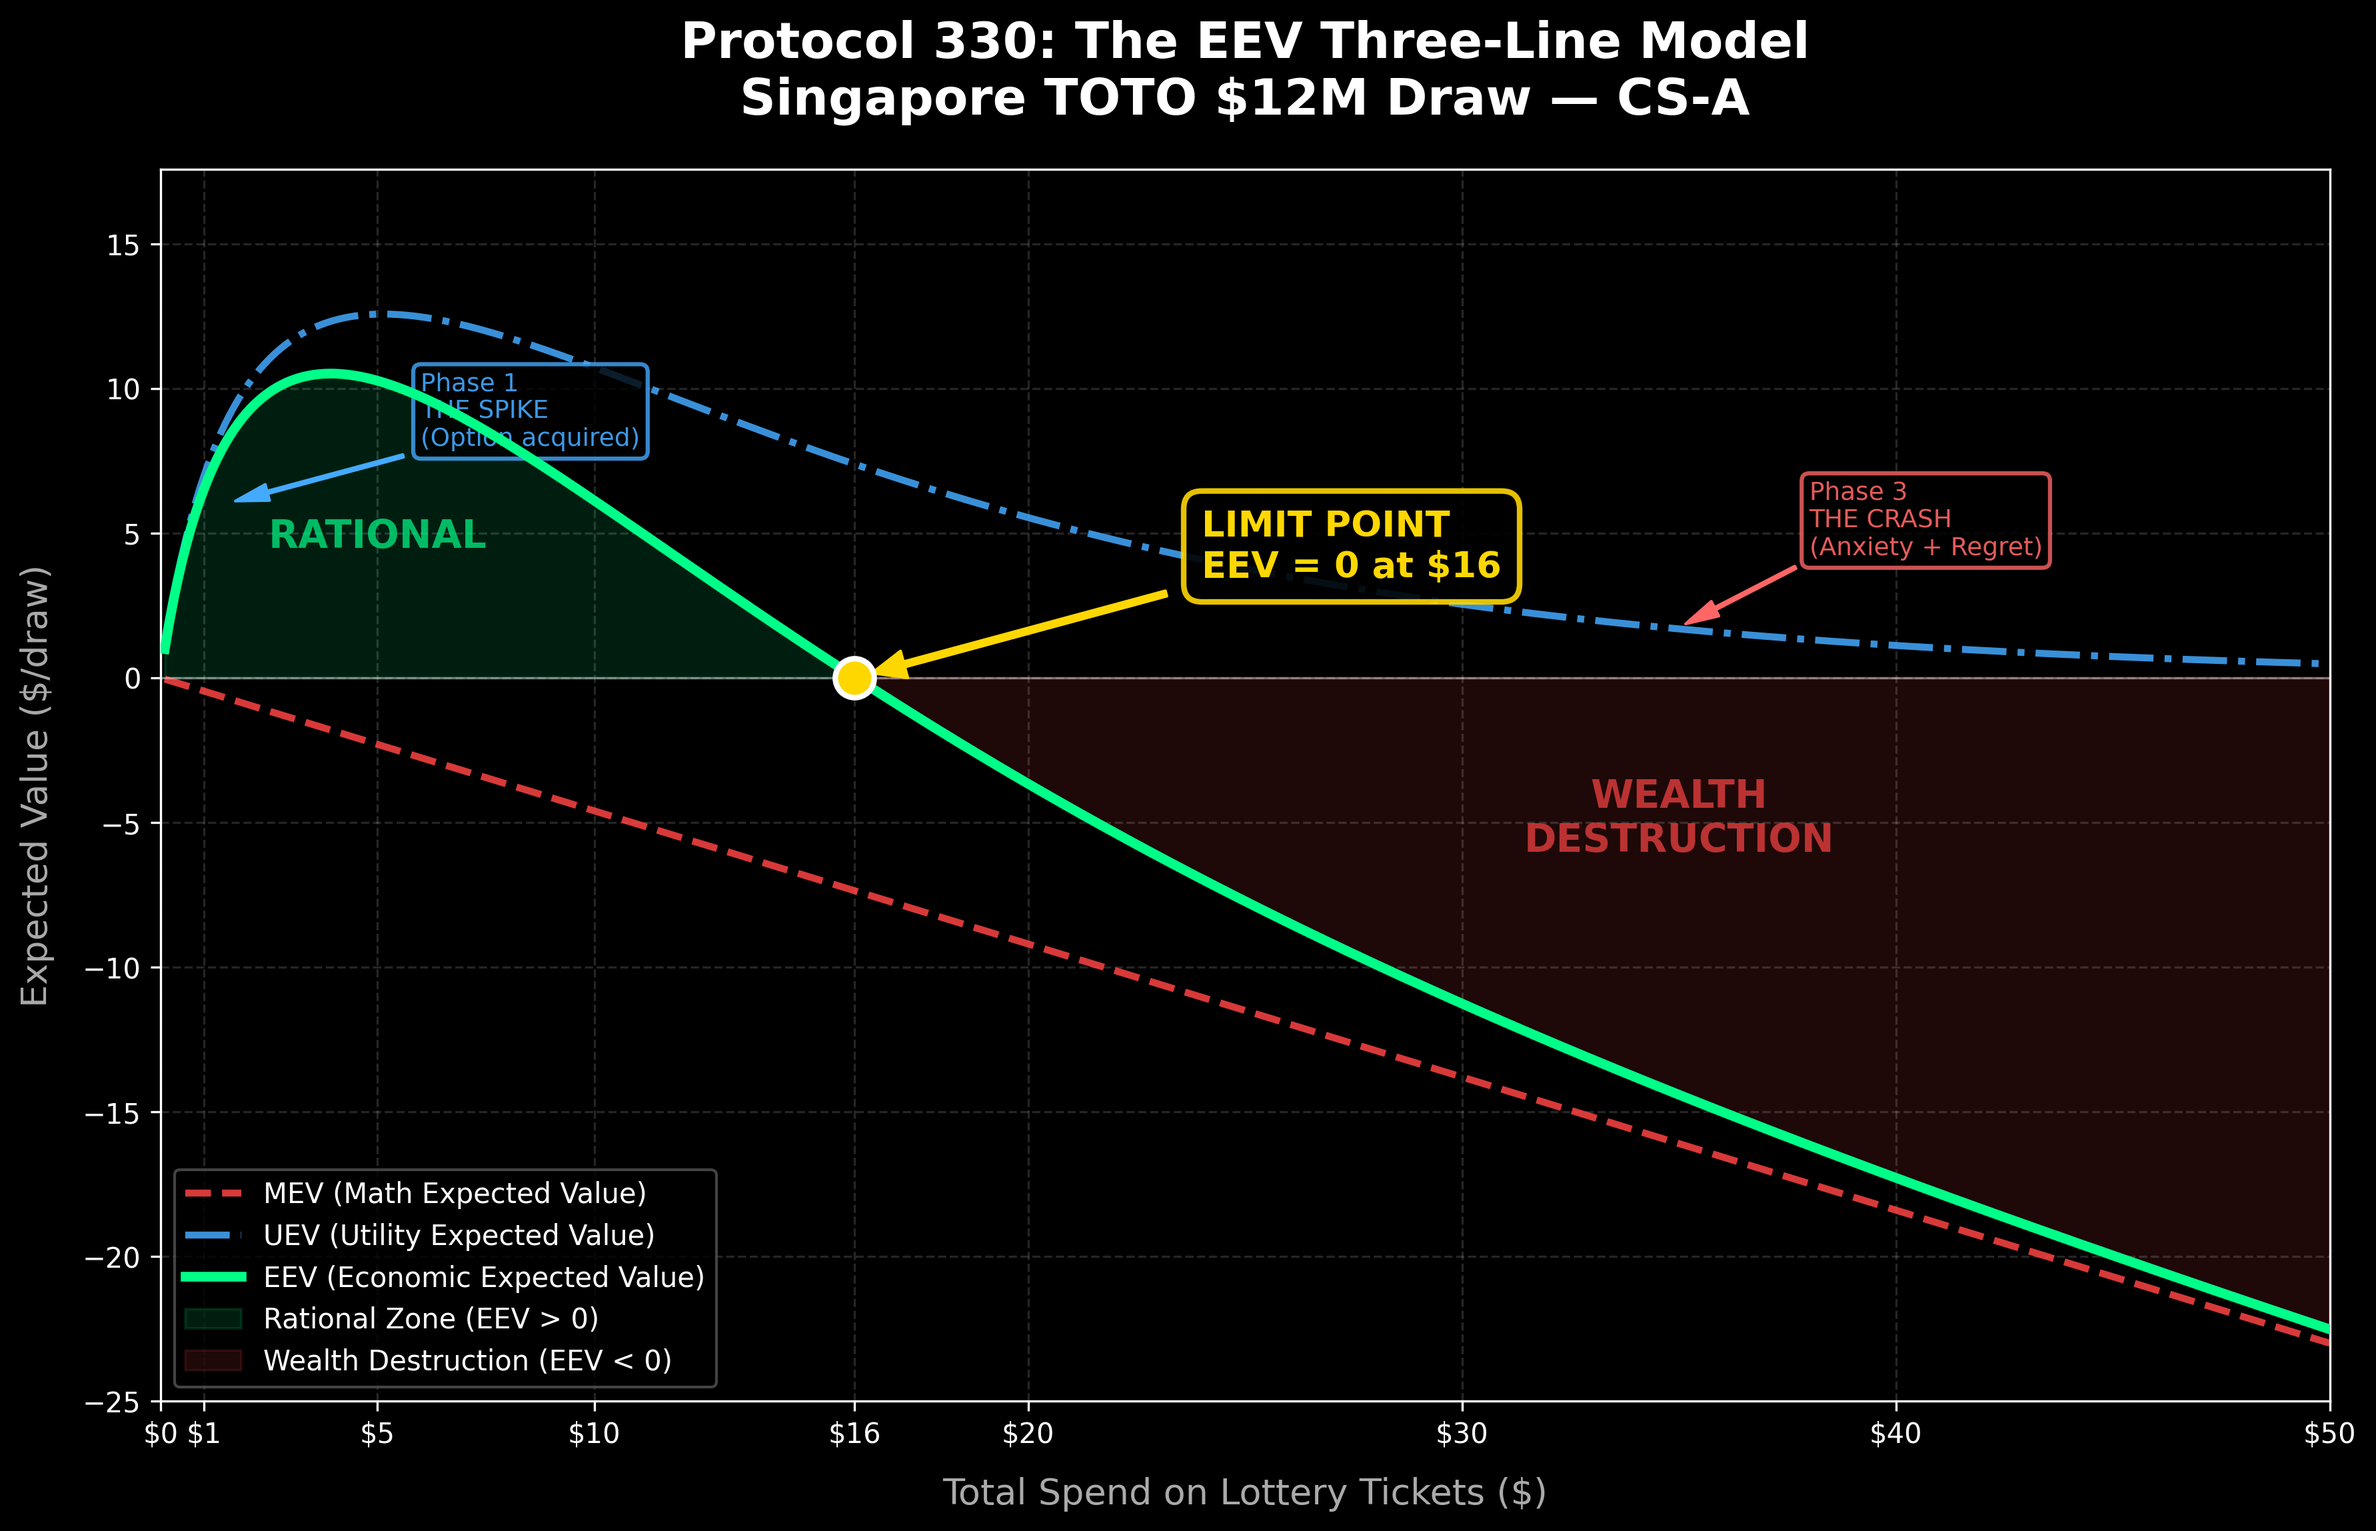
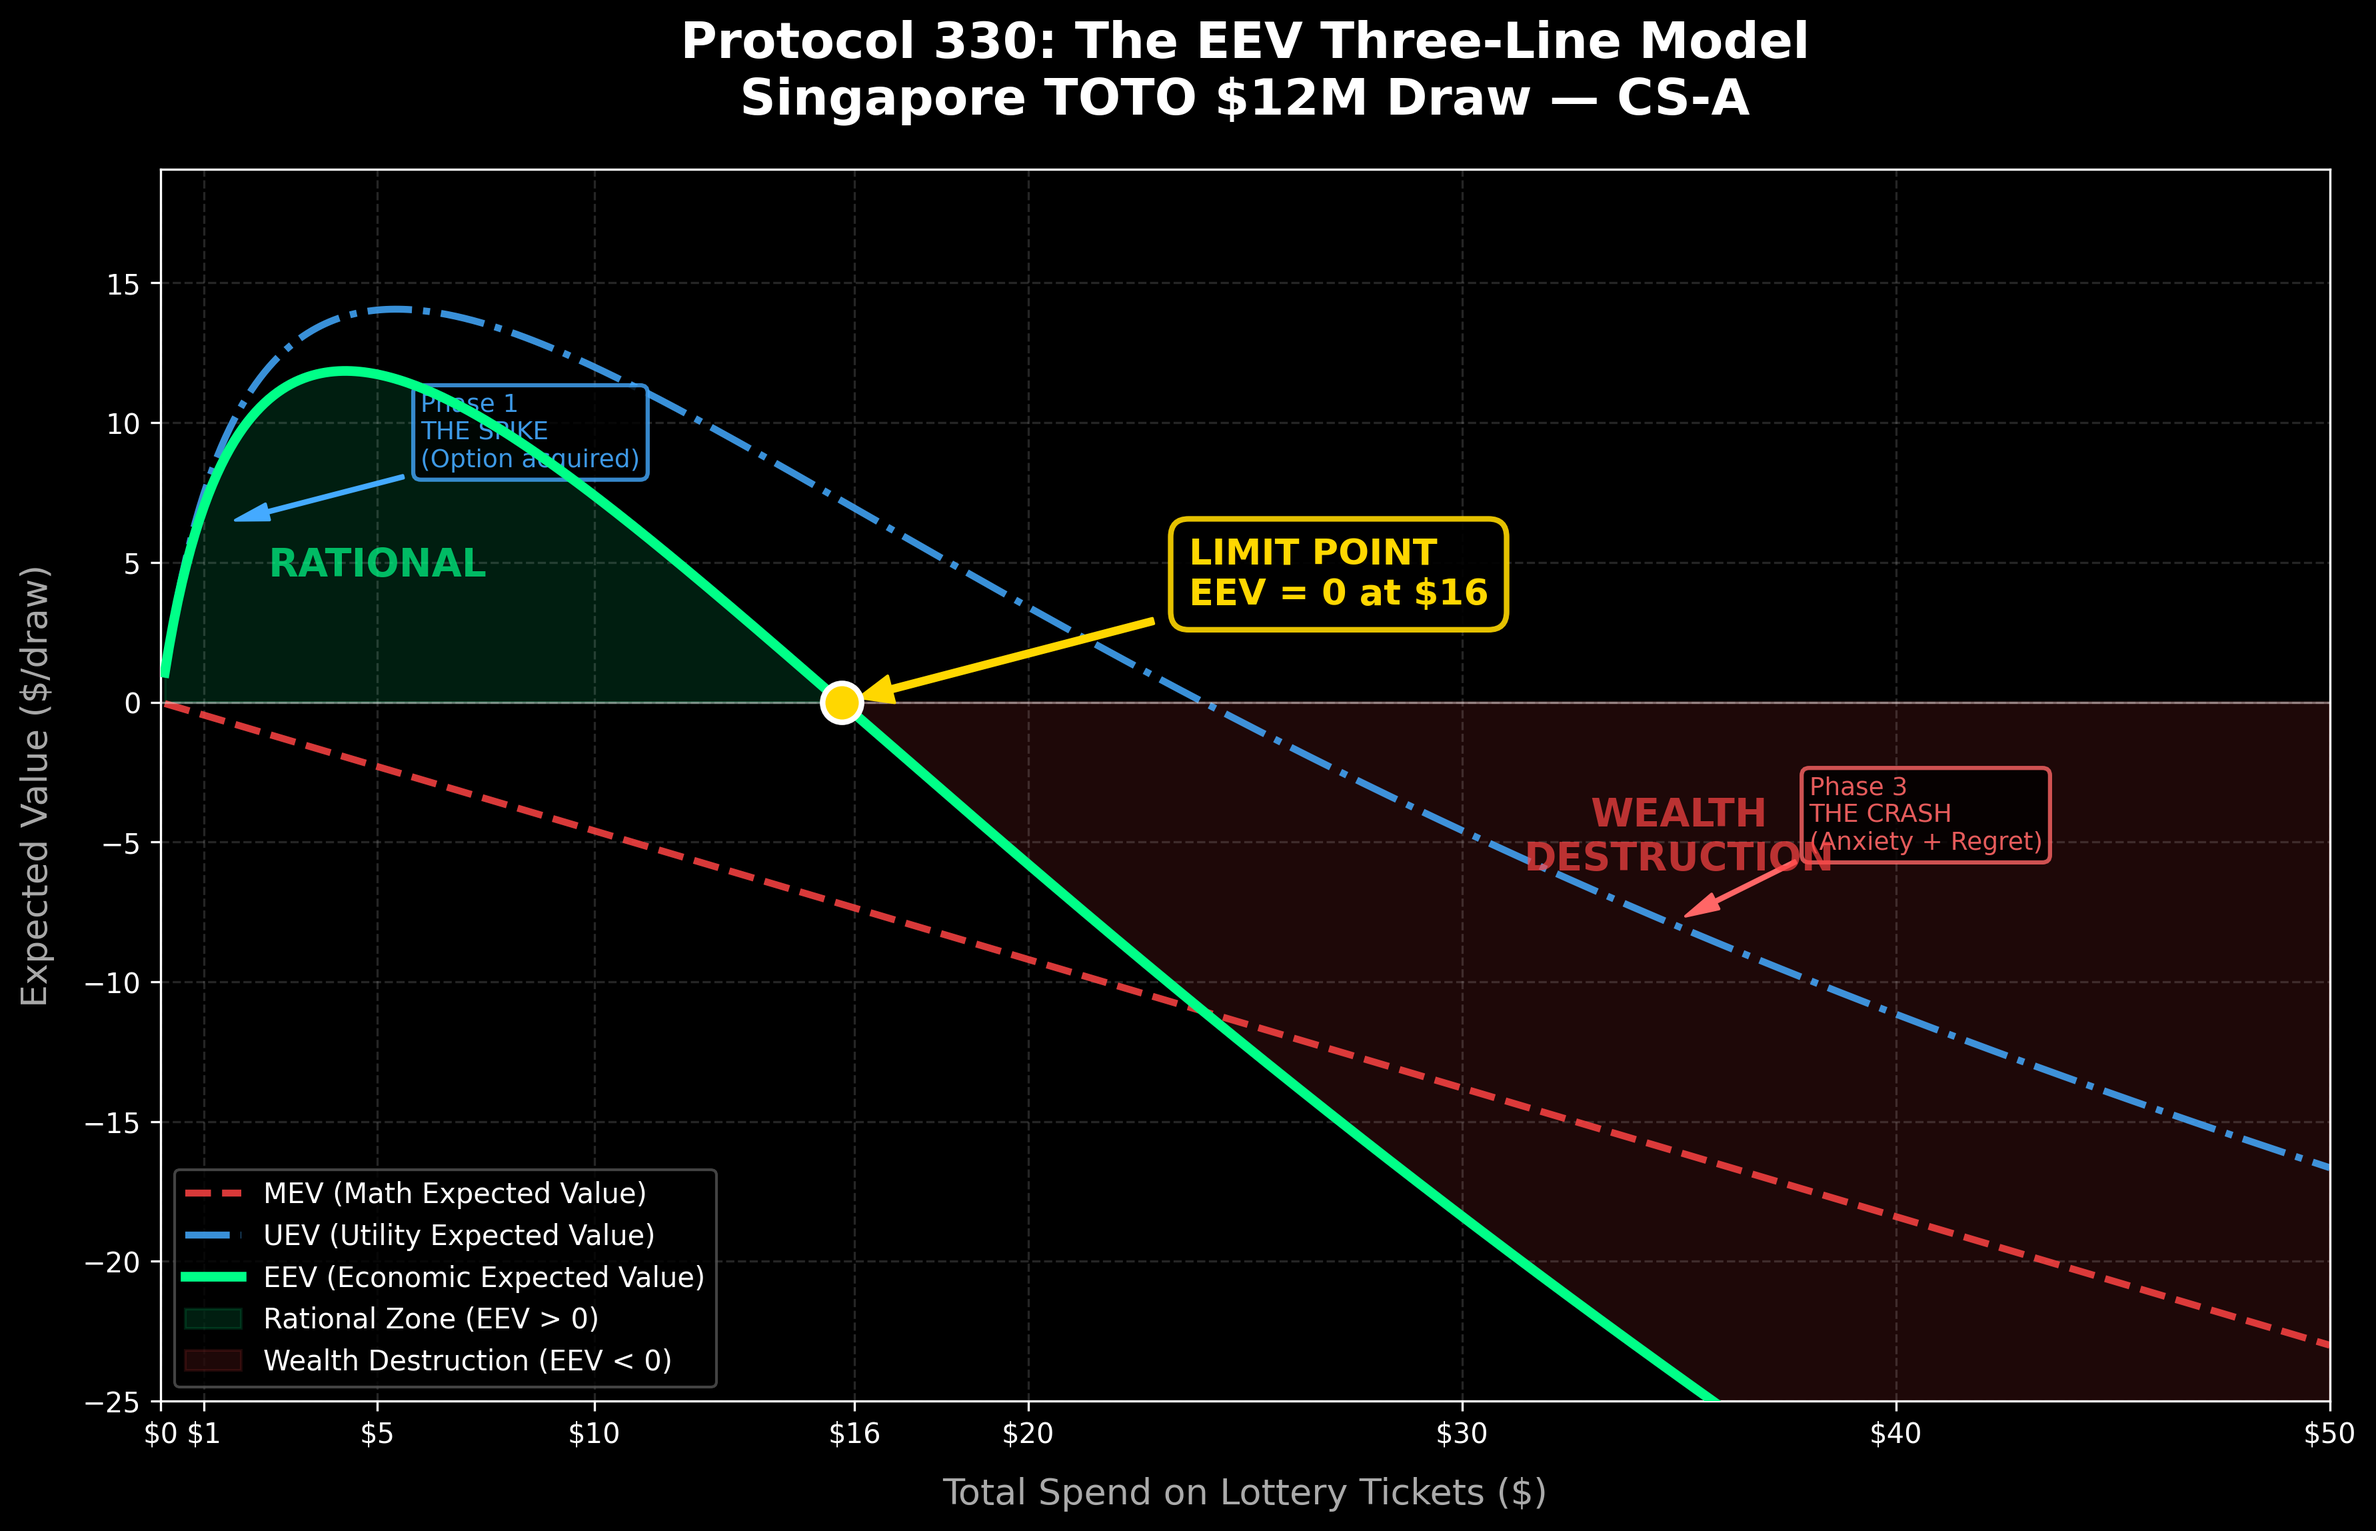
fix(P330): UEV model now crosses zero into negative territory
- Added linear drag term: UEV = A*ln(x+1)*exp(-Bx) - C*x
- UEV now goes negative beyond ~$25 (anxiety/addiction territory)
- Calibrated for median SG earner ($5.5K/mth)
- Limit Point remains at $16 (EEV=0)
- Added code comments explaining wealth-dependent UEV curves

diff --git a/examples/scripts/generate_eev_chart.py b/examples/scripts/generate_eev_chart.py
@@ -40,22 +40,36 @@ x = np.linspace(0.1, MAX_SPEND, 500)  # Avoid x=0 for log
 mev = -HOUSE_EDGE * x
 
 # --- UEV: Utility Expected Value ---
-# Phase 1 (0-1): Spike — acquiring the option gives near-peak utility
-# Phase 2 (1-10): Slow decay — diminishing marginal fantasy
-# Phase 3 (10+): Crash — anxiety, regret, cash drag
+# Phase 1 (0→$1): Sharp spike — acquiring the option gives near-peak utility
+#   ($1 → $12M dream is maximum psychological value)
+# Phase 2 ($1→$10): Slow decay — diminishing marginal fantasy
+# Phase 3 ($10+): Crash through ZERO into negative territory
+#   (anxiety, guilt, addiction pathway, real financial pain)
 #
-# Model: UEV = A * ln(x + 1) * exp(-B * x)
-# This creates a sharp spike near x=1, then exponential decay
-A = 11.0  # Amplitude (calibrated to make EEV=0 at ~$16)
-B = 0.09  # Decay rate
-uev = A * np.log(x + 1) * np.exp(-B * x)
+# Model: UEV = A * ln(x + 1) * exp(-B * x) - C * x
+#   Positive term: log * exp decay (the fantasy premium)
+#   Negative term: linear drag (the anxiety/pain cost)
+#   At low spend, the positive term dominates.
+#   At high spend, the linear drag overwhelms → UEV goes negative.
+#
+# Note: This is calibrated for a MEDIAN SG EARNER ($5.5K/mth).
+# For Bill Gates/Elon Musk, the UEV curve would be vastly flatter
+# (their utility function is concave at all lottery-relevant levels).
+A = 12.0  # Amplitude of positive utility (the fantasy premium)
+B = 0.06  # Decay rate of the fantasy
+C = 0.38  # Linear drag coefficient (anxiety/pain per dollar spent)
+uev = A * np.log(x + 1) * np.exp(-B * x) - C * x
 
 # --- EEV: Economic Expected Value ---
 eev = mev + uev
 
-# Find the actual zero crossing for annotation
+# Find the EEV zero crossing (Limit Point)
 zero_idx = np.argmin(np.abs(eev))
 actual_limit = x[zero_idx]
+
+# Find UEV zero crossing (where utility itself turns negative)
+uev_zero_idx = np.argmin(np.abs(uev[100:]))  # Skip initial region
+uev_zero_x = x[100 + uev_zero_idx]
 
 # ═══════════════════════════════════════════════════════════════
 # Plotting
